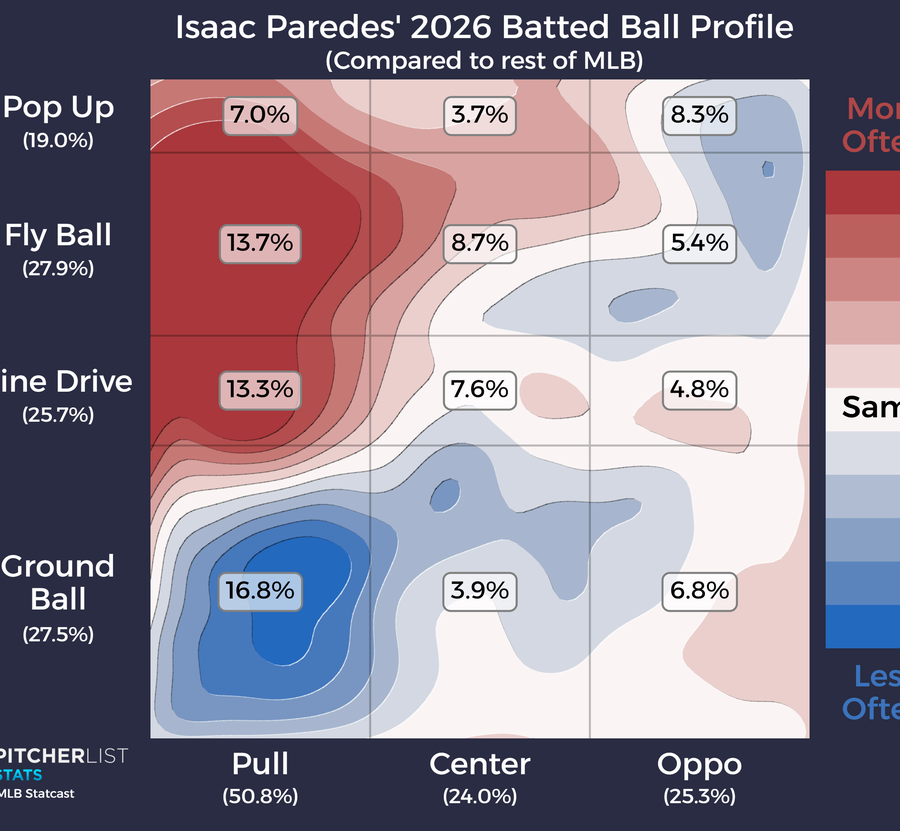
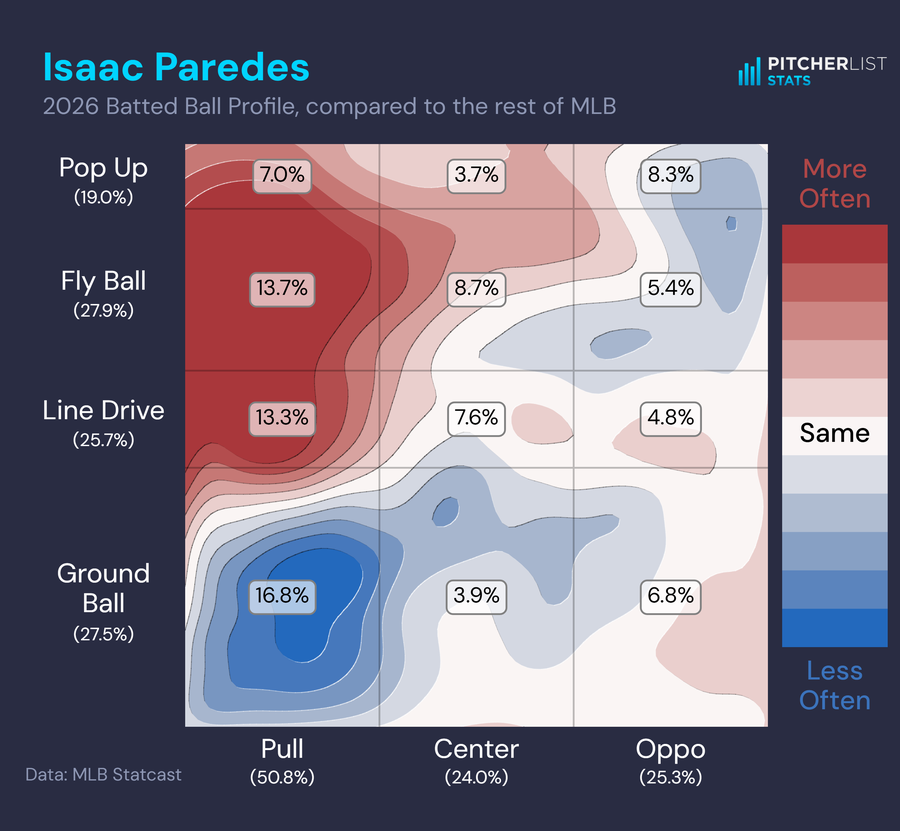
Homepage: re-pull the Batted Ball Charts tile, padded so its wordmark and credit fit; make_tiles.py takes tile names

diff --git a/tools/homepage/make_tiles.py b/tools/homepage/make_tiles.py
@@ -1,8 +1,10 @@
 """Crop the captured app PNGs (from grab_app_pngs.py) into uniform tile images.
 
 Phantom sizes each tile from its image's aspect ratio, so every crop shares one ratio.
-Each box is (left, top, right, bottom) as fractions of the source image.
+Name tiles on the command line to redo only those (make_tiles.py batted-balls); with no
+names, every tile is redone from whatever exports are in the cache.
 """
+import sys
 from pathlib import Path
 
 from PIL import Image
@@ -13,19 +15,28 @@ RATIO = 353 / 326  # the template's original tile aspect ratio
 WIDTH = 900
 
 # Where to anchor each crop: the part of the app output that reads best as a thumbnail.
+# None pads the figure out to the tile's shape with its own background colour instead.
 CROPS = {
     "pitcher-cards": (0.0, 0.0),     # name, grades, usage and movement plots
     "sequencing-flow": (0.0, 0.5),   # the Sankey body
     "swing-profiles": (0.5, 0.0),
-    "batted-balls": (0.5, 0.0),
+    "batted-balls": None,            # padded, not cropped: the wordmark and data credit sit at the edges
     "release-angles": (0.5, 0.0),   # the figure with its title; trims the footer
     "nhl-draft": (0.0, 0.0),         # top of the options table
 }
 
 
-def crop(name, ax, ay):
+def crop(name, anchor):
     im = Image.open(CACHE / f"{name}.png").convert("RGB")
     w, h = im.size
+    if anchor is None:
+        pw, ph = max(w, round(h * RATIO)), max(h, round(w / RATIO))
+        padded = Image.new("RGB", (pw, ph), im.getpixel((0, 0)))
+        padded.paste(im, ((pw - w) // 2, (ph - h) // 2))
+        padded.resize((WIDTH, round(WIDTH / RATIO)), Image.LANCZOS).save(IMAGES / f"tile-{name}.png", optimize=True)
+        print(f"tile-{name}.png from {w}x{h} padded to {pw}x{ph}")
+        return
+    ax, ay = anchor
     if w / h > RATIO:
         cw, ch = round(h * RATIO), h
     else:
@@ -37,5 +48,7 @@ def crop(name, ax, ay):
     print(f"tile-{name}.png from {w}x{h} crop {cw}x{ch} at ({x},{y})")
 
 
-for name, (ax, ay) in CROPS.items():
-    crop(name, ax, ay)
+only = set(sys.argv[1:])
+for name, anchor in CROPS.items():
+    if not only or name in only:
+        crop(name, anchor)

diff --git a/README.md b/README.md
@@ -15,7 +15,7 @@ credit) with the site's dark palette. Each tile's picture is real output from it
 | `assets/css/blandalytics.css` | the site's palette and font over the template, the tile scrim, the footer wordmark |
 | `images/tile-*.png` | the tile pictures, one per tool |
 | `tools/homepage/grab_app_pngs.py` | runs each tool in headless Chrome and saves the PNG from its own export button (the NHL Draft Tool has none, so it screenshots the options table of a mock draft) |
-| `tools/homepage/make_tiles.py` | crops those exports into the tiles, all at the template's tile aspect ratio |
+| `tools/homepage/make_tiles.py` | crops those exports into the tiles, all at the template's tile aspect ratio (a figure whose edges carry text, like Batted Ball Charts, is padded out with its background instead) |
 
 ### Updating the tiles
 
@@ -24,7 +24,7 @@ the rest take whatever the tool opens on. It needs Chrome and `websocket-client`
 
 ```
 python tools/homepage/grab_app_pngs.py            # every tool, or name some: pitcher-cards sequencing-flow
-python tools/homepage/make_tiles.py
+python tools/homepage/make_tiles.py               # same: name the tiles you re-pulled, so the rest aren't redone from older exports
 ```
 
 The full-size exports land in `tools/homepage/cache/` (not committed). After changing
